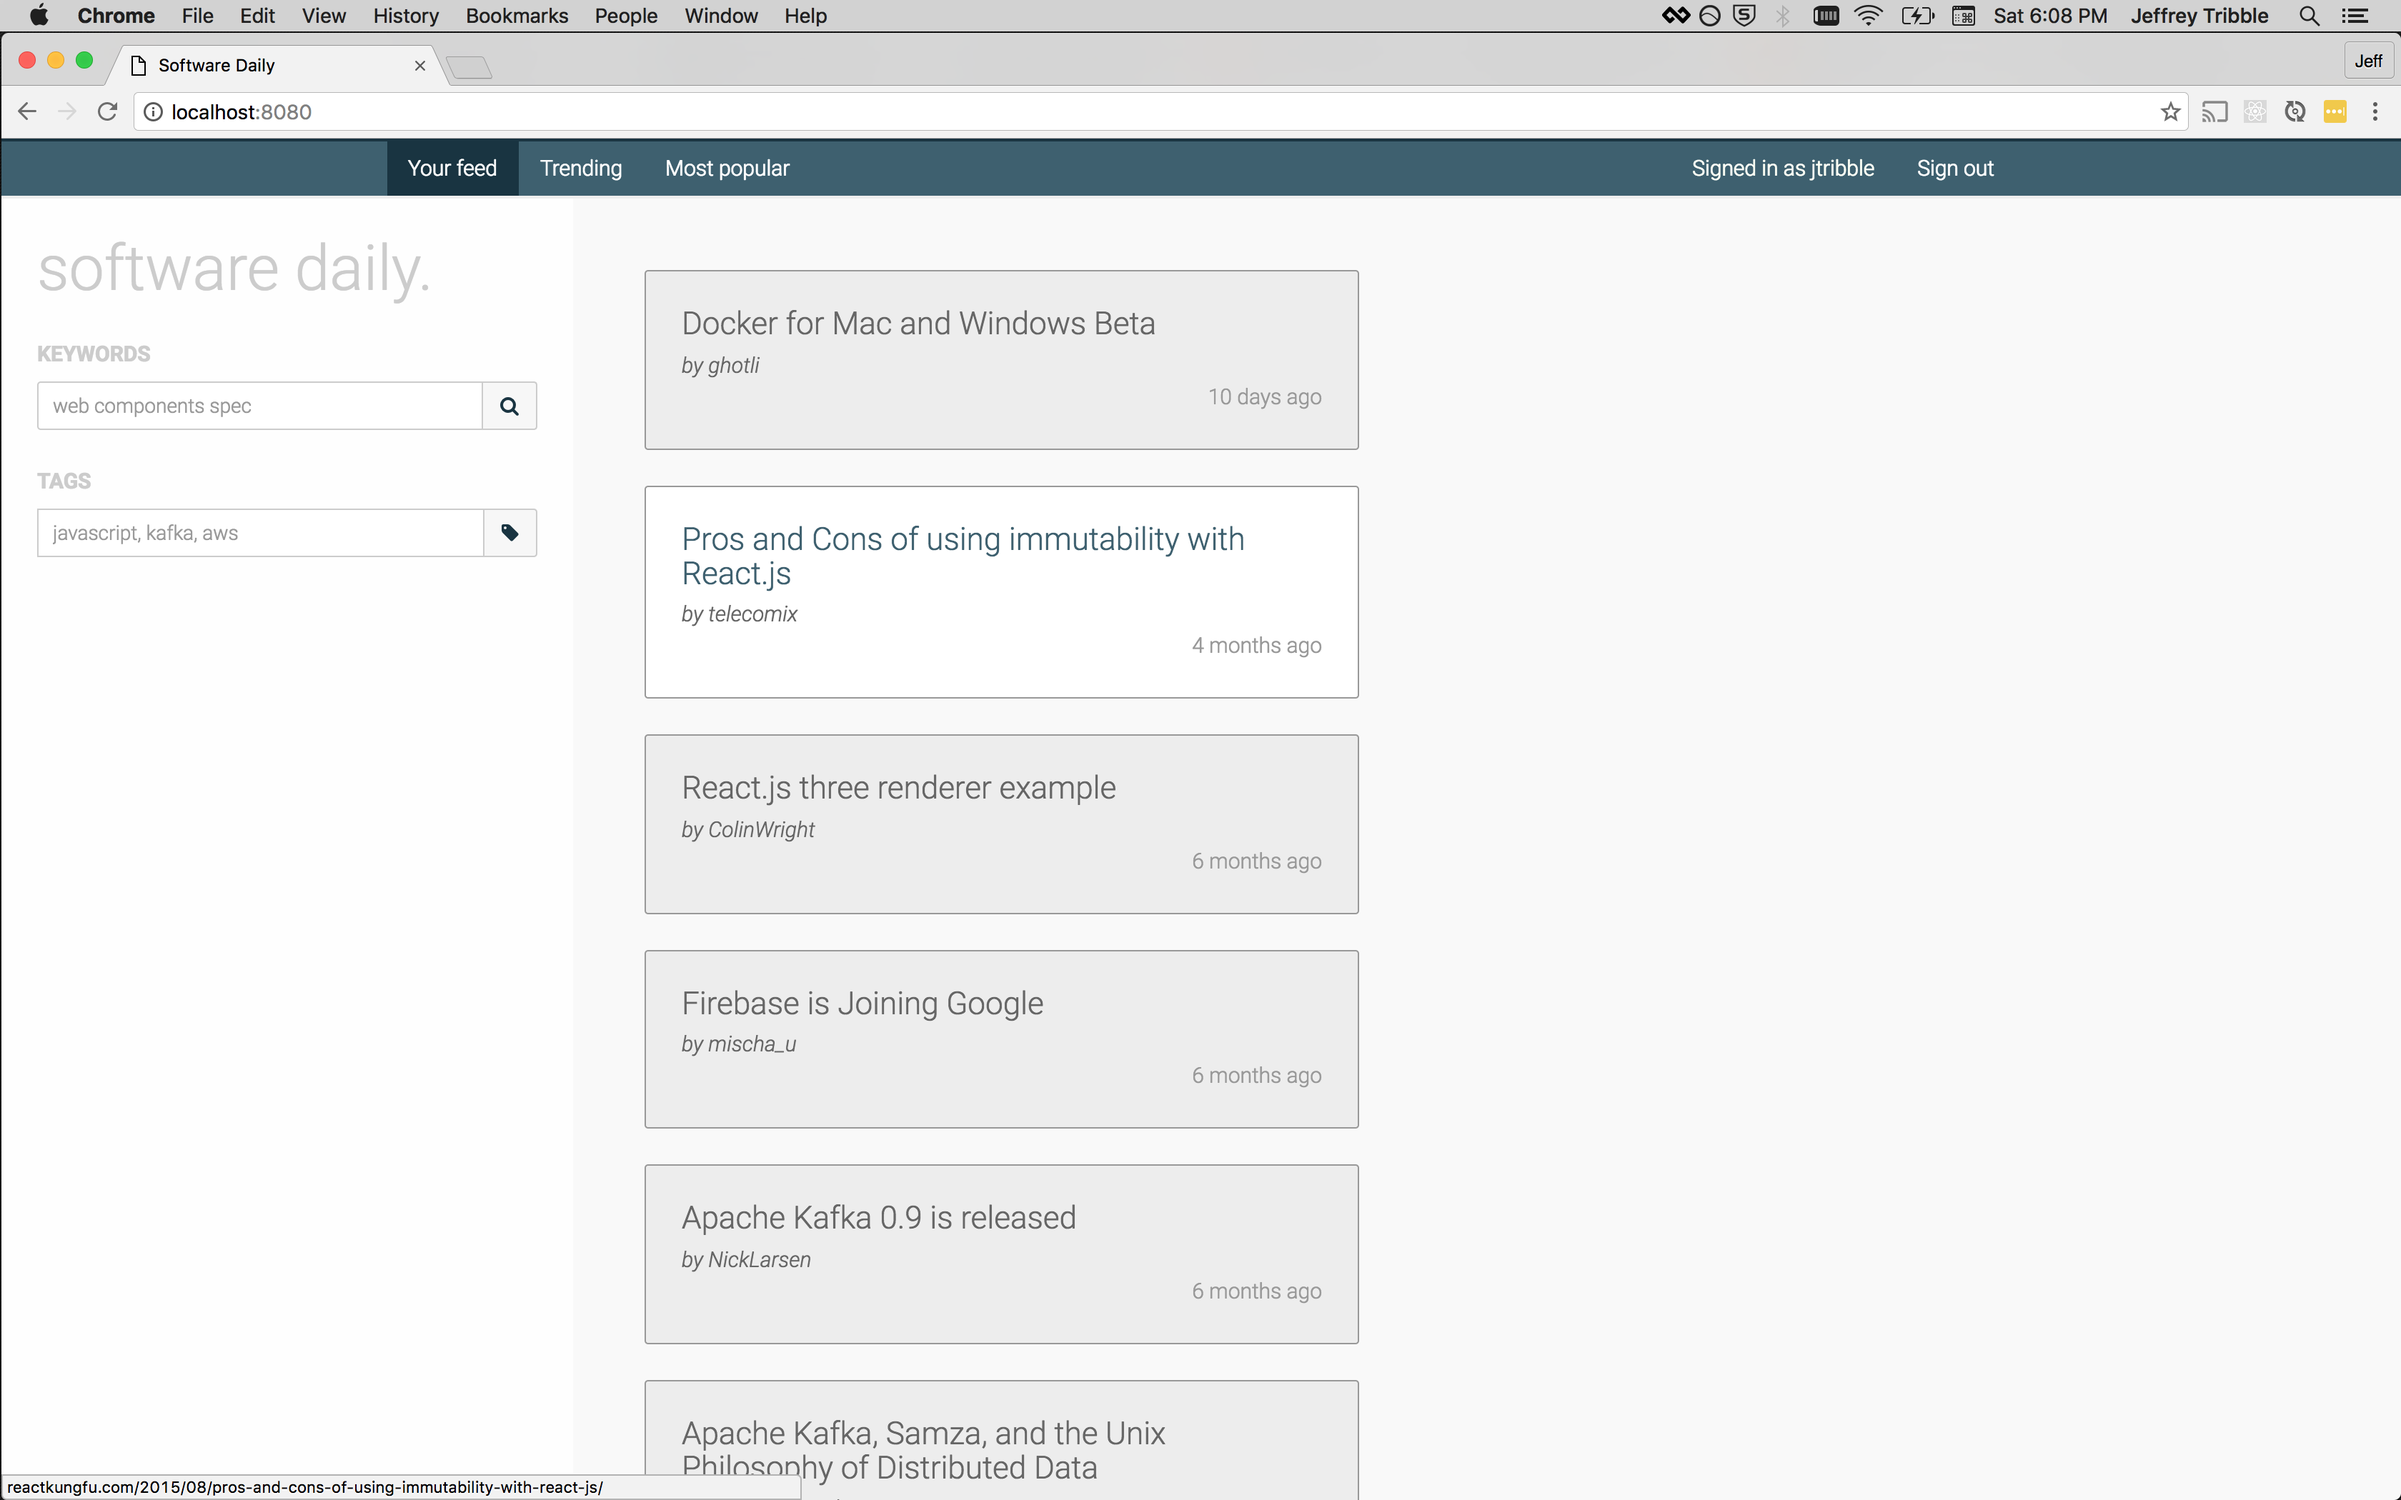
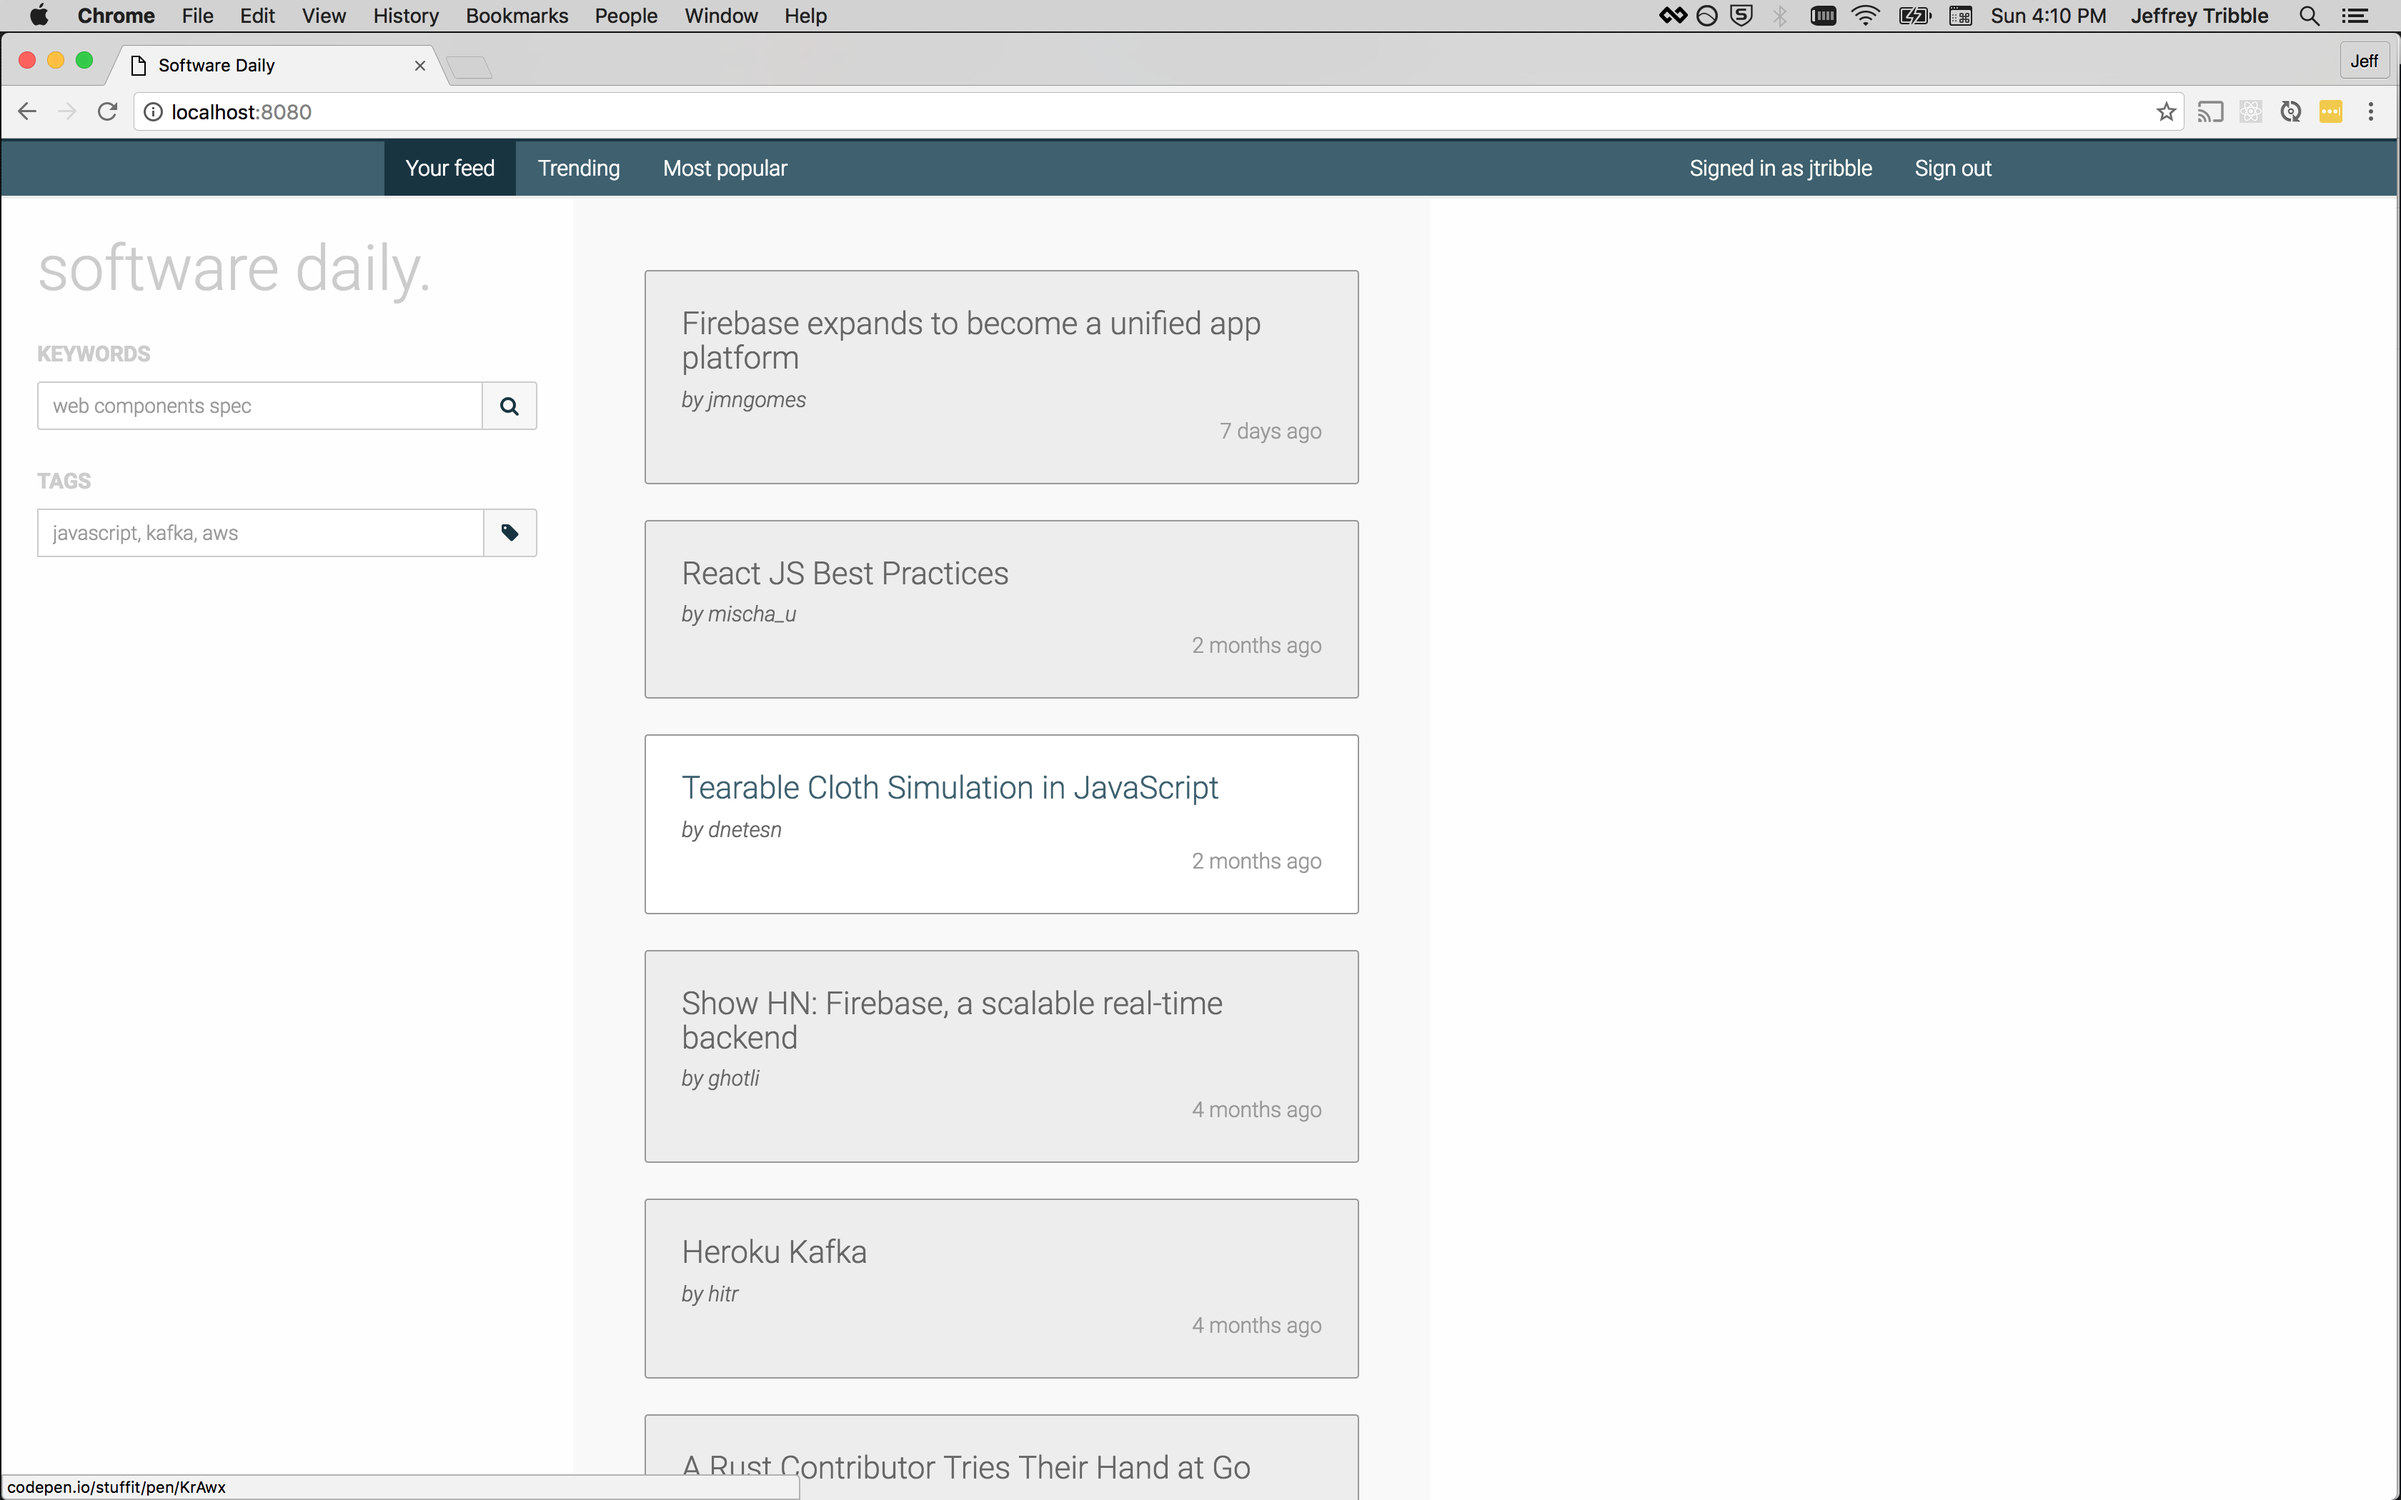
Update interface example screenshots

diff --git a/README.md b/README.md
@@ -22,6 +22,8 @@ At the time of this writing, this is what the interface looks like:
 
 ![Interface Example C](/docs/images/interface-example-c.png?raw=true "Interface Example C")
 
+![Interface Example C](/docs/images/interface-example-d.png?raw=true "Interface Example D")
+
 *(Jeff T. speaking...)*
 
 My goal has been to get a working interface up as fast as possible, so that we can try out features and figure out what works best. This means that I've pretty much exclusively been working on the user interface, and am using static sample data.
